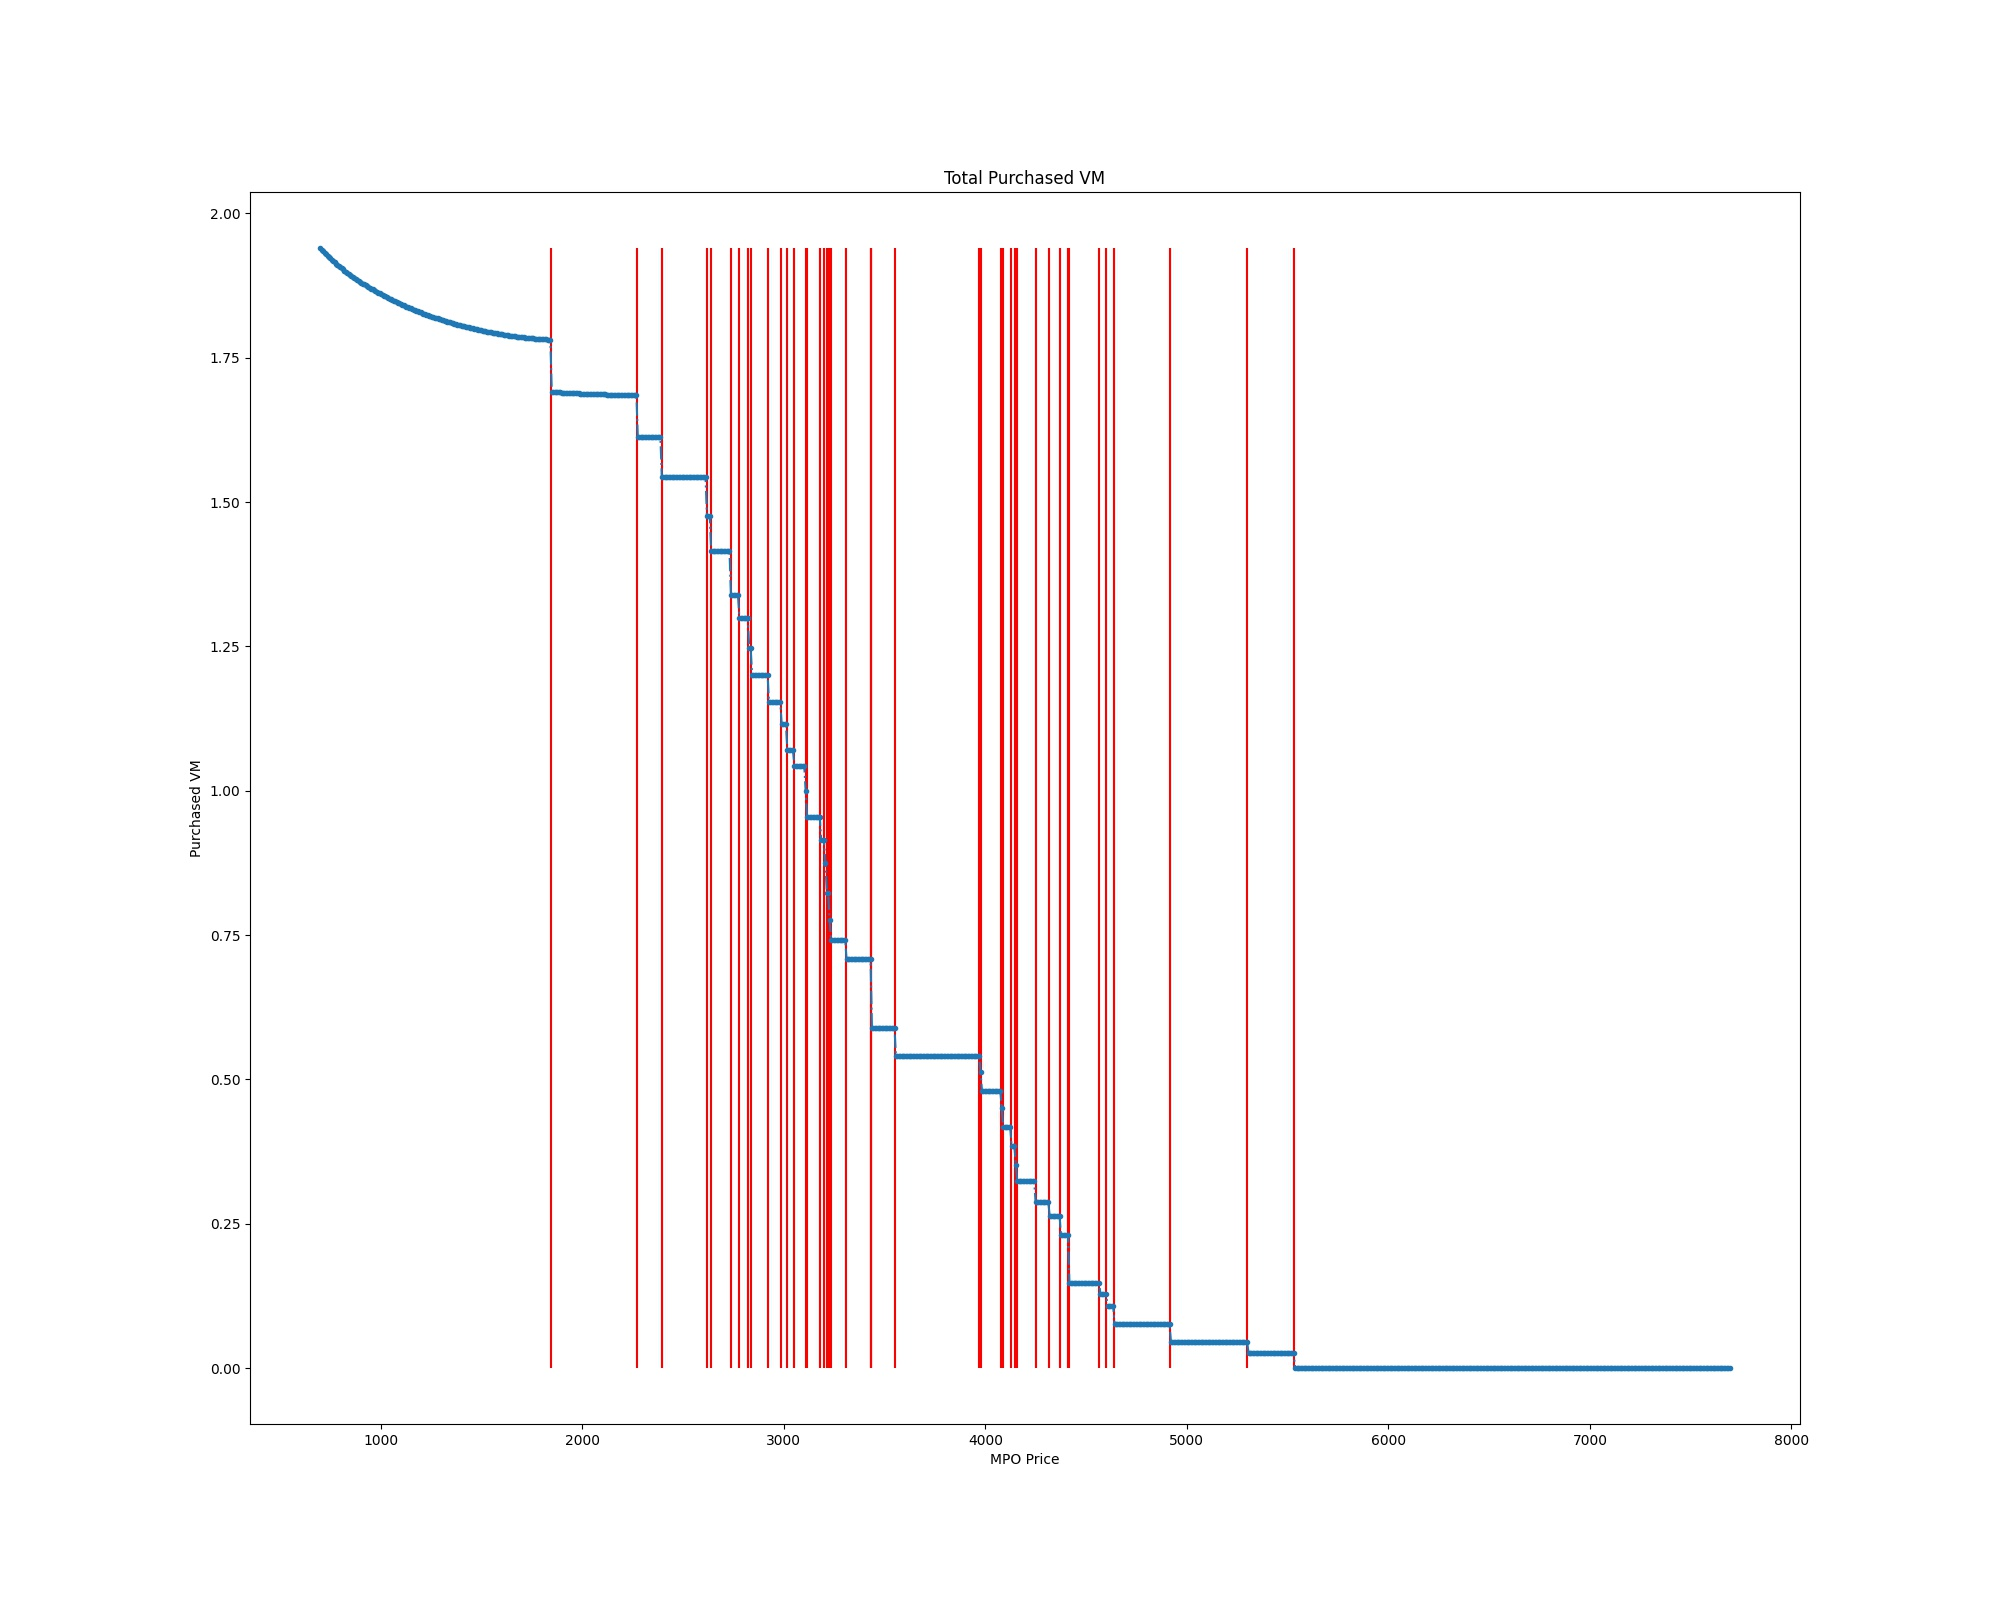
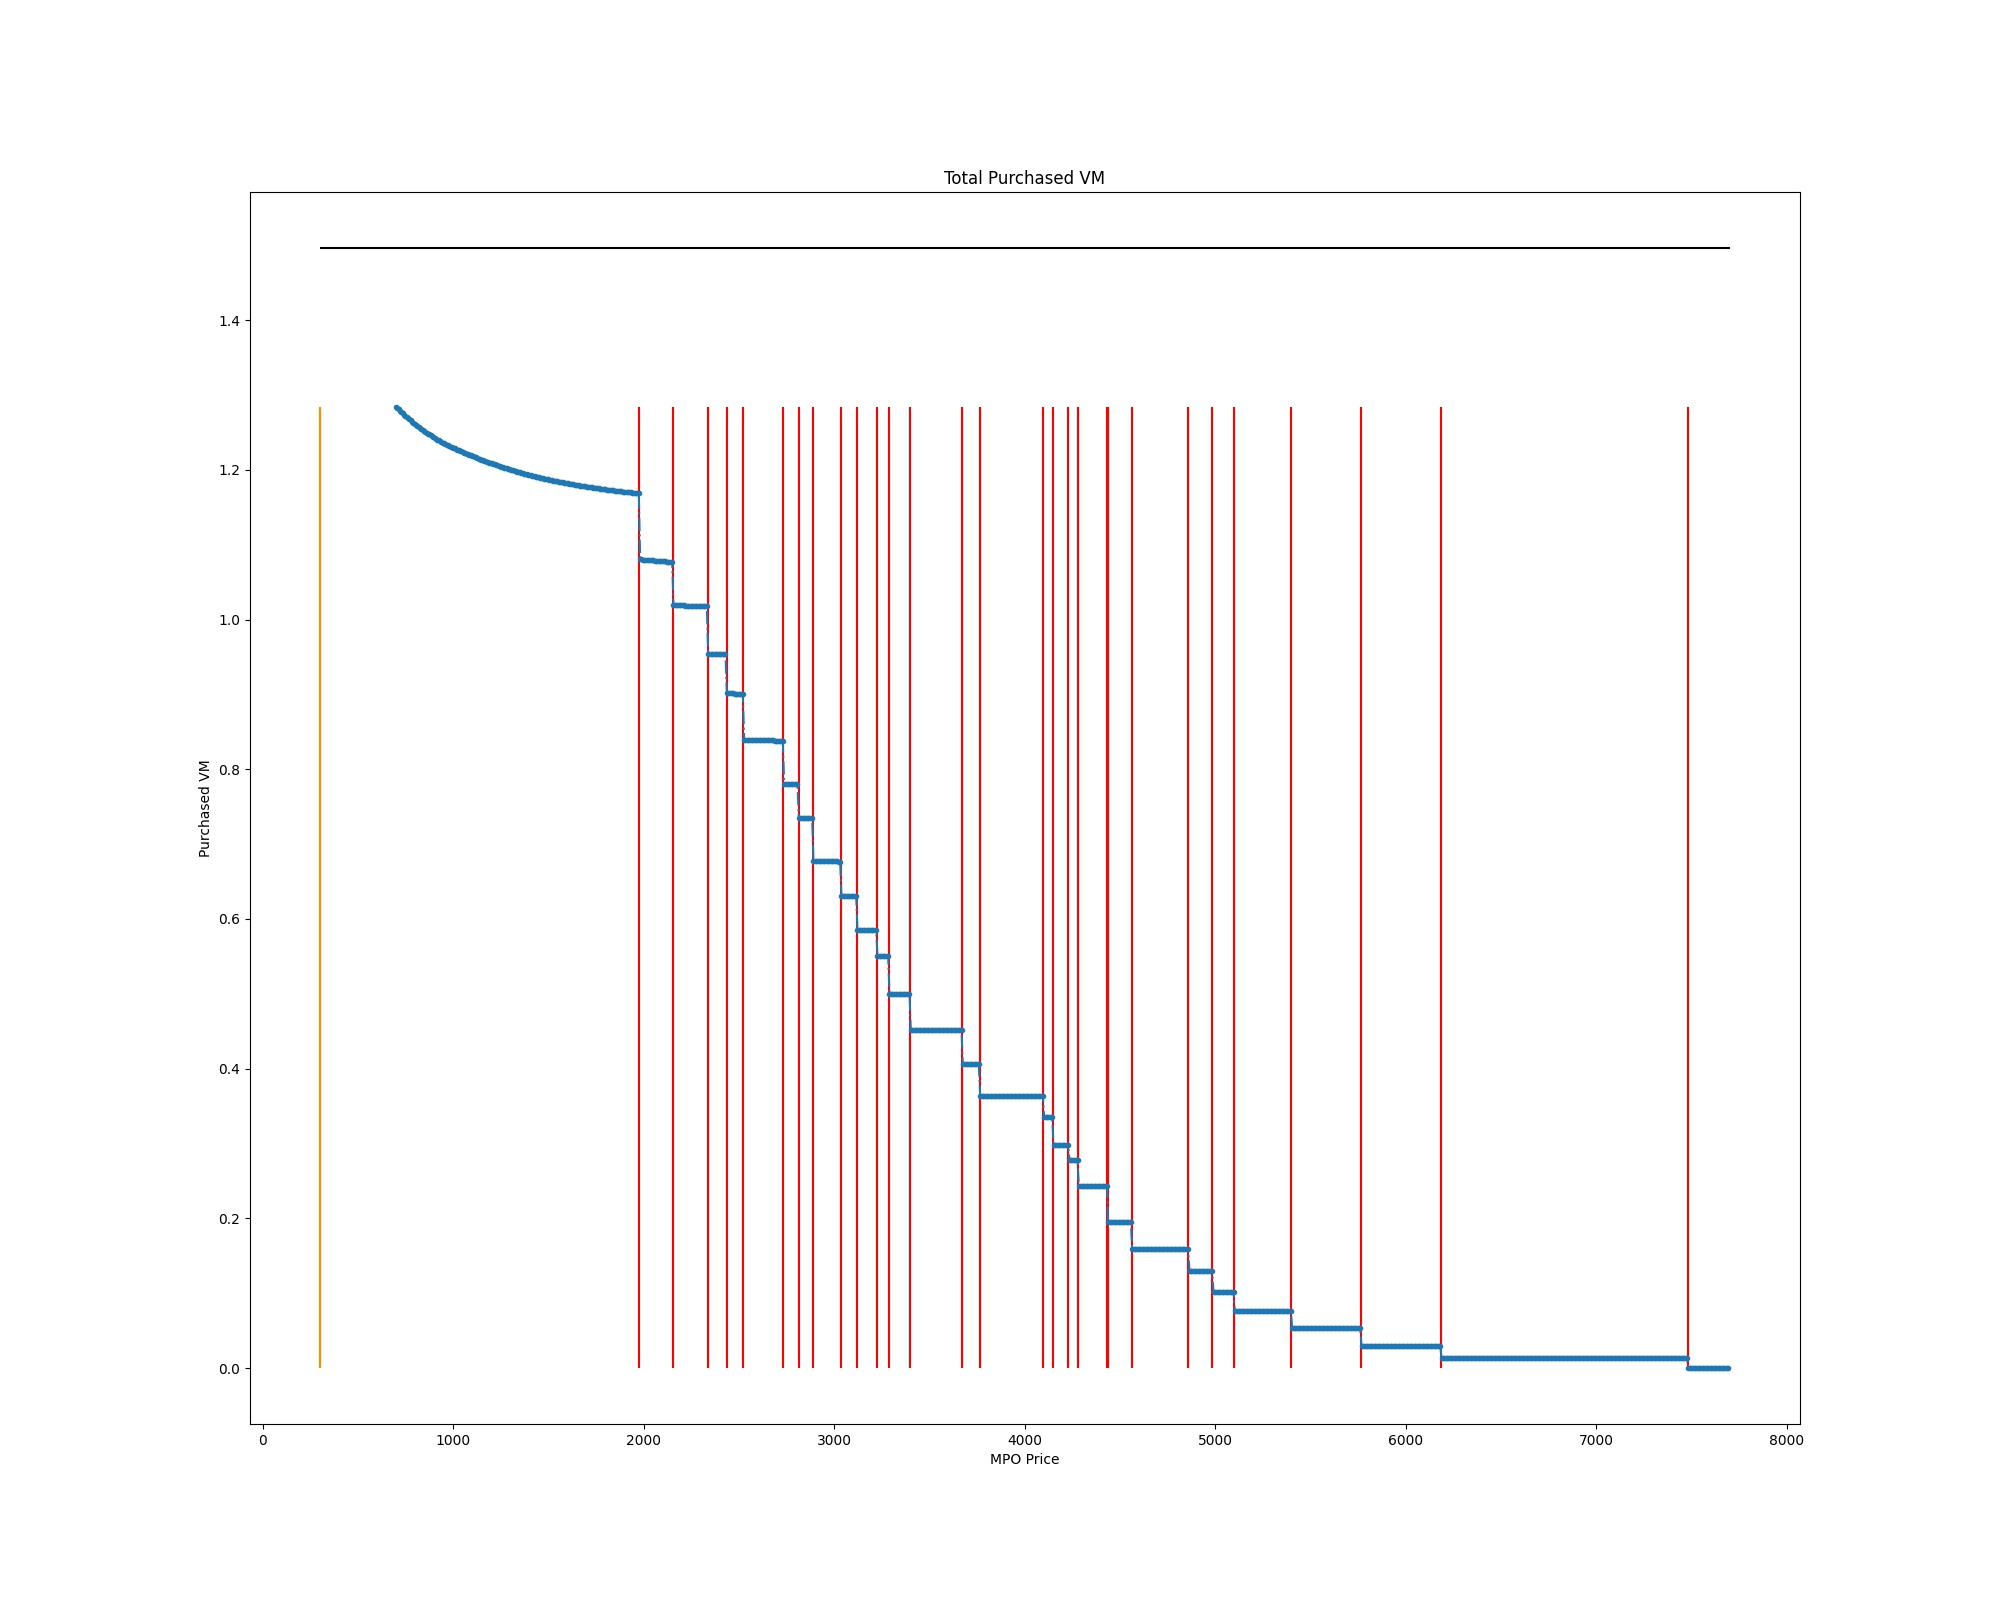
add algorithm

diff --git a/simulation_code/mpo.py b/simulation_code/mpo.py
@@ -12,6 +12,7 @@ class MPO():
         self.num_of_vm = uniform(MPO_NUM_OF_VM_LOWER, MPO_NUM_OF_VM_UPPER)
         self.set_asp()
         self.set_bd()
+        self.get_queue_bound()
 
     def set_asp(self):
         for i in range(self.num_of_asp):
@@ -32,9 +33,16 @@ class MPO():
         self.bd = []
         for asp in self.asp_lst:
             asp.set_boundary()
-
             self.bd.append(asp.bound)
         self.bd.sort()
+        return
+
+    def get_queue_bound(self):
+        self.qbd = []
+        for asp in self.asp_lst:
+            asp.set_boundary()
+            self.qbd.append(asp.qbound)
+        self.qbd.sort()
         return
 
     def set_and_check_required_vm(self, price):
@@ -44,30 +52,38 @@ class MPO():
         return
 
     def plot_phi(self):
+        self.find_optimize_phi()
         phi = 700
         step = 7
         pr = []
         ut = []
         bound = []
         num = []
+        vm_prior = float('inf')
         for _ in range(1000):
             self.set_and_check_required_vm(phi)
-            vm_prior = self.total_vm()
+            vm_after = self.total_vm()
             pr.append(phi)
-            ut.append(phi * vm_prior - MPO_cost(vm_prior))
-            num.append(vm_prior)
+            ut.append(phi * vm_after - MPO_cost(vm_after))
+            num.append(vm_after)
             phi += step
-        plt.figure(figsize=(20, 16))
+            if vm_prior < vm_after:
+                print('Total VM is not non-increasing')
+            vm_prior = vm_after
+        plt.figure(figsize=(20, 16), dpi=100)
         plt.plot(pr, ut, marker='.', linestyle='-.')
         plt.title('Utility of MPO')
         plt.xlabel('MPO Price')
         plt.ylabel('Utility')
         plt.vlines(self.bd, ymin=0, ymax=max(ut), linestyle='-', color ='red')
+        plt.vlines(self.constraint_phi, ymin=0, ymax=max(ut), linestyle='-', color ='darkorange')
         plt.savefig('./utility.jpg')
         plt.close()
-        plt.figure(figsize=(20, 16))
+        plt.figure(figsize=(20, 16), dpi=100)
         plt.plot(pr, num, marker='.', linestyle='-.')
         plt.vlines(self.bd, ymin=0, ymax=max(num), linestyle='-', color ='red')
+        plt.hlines(self.num_of_vm, xmin=min(700, self.constraint_phi), xmax=7700, linestyle='-', color ='black')
+        plt.vlines(self.constraint_phi, ymin=0, ymax=max(num), linestyle='-', color ='darkorange')
         plt.title('Total Purchased VM')
         plt.xlabel('MPO Price')
         plt.ylabel('Purchased VM')
@@ -75,9 +91,8 @@ class MPO():
         plt.close()
 
     def find_optimize_phi(self):
-        print(self.num_of_vm)
         vm_prior = float('inf')
-        phi_prior = 0
+        phi_prior = 0.01
         for bd in self.bd:
             self.set_and_check_required_vm(bd)
             vm_after = self.total_vm()
@@ -86,26 +101,27 @@ class MPO():
                 break
             vm_prior = vm_after
             phi_prior = phi_after
-        print(vm_prior)
-        print(vm_after)
-        upper = phi_after
-        lower = phi_prior
-        print(upper)
-        print(lower)
-        mid = (upper + lower) / 2
-        self.set_and_check_required_vm(lower)
-        vm_num = self.total_vm()
-        print(vm_num)
-        while abs(vm_num - self.num_of_vm) > 0.001 and abs(upper - lower) > 1E-8:
-            print((abs(vm_num - self.num_of_vm) > 0.001, abs(upper - lower) > 1E-8))
+        if phi_prior > max(self.qbd):
+            self.constraint_phi = phi_prior
+        else:
+            upper = phi_after
+            lower = phi_prior
             mid = (upper + lower) / 2
-            self.set_and_check_required_vm(mid)
+            self.set_and_check_required_vm(lower)
             vm_num = self.total_vm()
-            if vm_num > self.num_of_vm:
-                lower = mid
-            else:
-                upper = mid
-        print((abs(vm_num - self.num_of_vm) > 0.001, abs(upper - lower) > 1E-8))
-        print(mid)
-        self.set_and_check_required_vm(mid)
-        print(self.total_vm())
+            print(self.num_of_vm)
+            while abs(vm_num - self.num_of_vm) > 0.001 and abs(upper - lower) > 1E-8:
+                mid = (upper + lower) / 2
+                self.set_and_check_required_vm(mid)
+                vm_num = self.total_vm()
+                print(vm_num)
+                print(f'upper : {upper}, lower : {lower}')
+                if vm_num > self.num_of_vm:
+                    lower = mid
+                else:
+                    upper = mid
+            print(f"Constraint price : {mid}")
+            self.set_and_check_required_vm(mid)
+            vm = self.total_vm()
+            print(vm)
+            self.constraint_phi = mid

diff --git a/simulation_code/asp.py b/simulation_code/asp.py
@@ -20,9 +20,6 @@ class ASP():
         self.chi = 0.999
         self.gamma = 100
         self.phi = 0.1
-        self.rbound = 0
-        self.lbound = 0
-        self.mbound = 0
 
     def set_users(self):
         for i in range(self.num_of_normal_users):
@@ -67,10 +64,10 @@ class ASP():
             util2 += (dev.price_per_task * (1 - ((dev.transmission_time_to_asp + self.time(z_v, 0) - ASP_DEVICE_LATENCY_LOWER) / (ASP_DEVICE_LATENCY_UPPER - ASP_DEVICE_LATENCY_LOWER))))
         if GLOBAL_ETA > self.service_rate:
             self.bound = util1 / z_v
+            self.qbound = self.total_payment / ((ASP_DEVICE_LATENCY_UPPER - ASP_DEVICE_LATENCY_LOWER) * ((1 - self.chi) * self.service_rate + self.chi * GLOBAL_ETA)) / (z_v - self.arrival_rate / ((1 - self.chi) * self.service_rate + self.chi * GLOBAL_ETA)) ** 2
         else:
-
             self.bound = util2 / z_v
-        #self.lbound = self.total_payment / ((ASP_DEVICE_LATENCY_UPPER - ASP_DEVICE_LATENCY_LOWER) * ((1 - self.chi) * self.service_rate + self.chi * GLOBAL_ETA)) / (z_v - self.arrival_rate / ((1 - self.chi) * self.service_rate + self.chi * GLOBAL_ETA)) ** 2
+            self.qbound = self.total_payment / ((ASP_DEVICE_LATENCY_UPPER - ASP_DEVICE_LATENCY_LOWER) * ((1) * self.service_rate)) / (z_v - self.arrival_rate / ((1) * self.service_rate)) ** 2
         return
 
     def set_process_time(self):
@@ -88,9 +85,9 @@ class ASP():
                 print('infeasible')
             if self.utility < 0:
                 self.z_v = 0
-
         else:
-            self.z_v = (1 / self.service_rate) * sqrt(self.service_rate * self.total_payment / ((ASP_DEVICE_LATENCY_UPPER - ASP_DEVICE_LATENCY_LOWER) * self.mpo_price)) + self.arrival_rate / self.service_rate
+            self.z_v = sqrt(self.total_payment / ((ASP_DEVICE_LATENCY_UPPER - ASP_DEVICE_LATENCY_LOWER) * self.mpo_price * self.service_rate)) + self.arrival_rate / self.service_rate
+            self.z_h = 0
             if self.z_v < (self.gamma + self.arrival_rate) / self.service_rate:
                 self.z_v = (self.gamma + self.arrival_rate) / self.service_rate
 

diff --git a/simulation_code/run.py b/simulation_code/run.py
@@ -5,8 +5,8 @@ from mpo import MPO
 
 if __name__ == '__main__':
     mpo = MPO()
-    mpo.find_optimize_phi()
-    # mpo.plot_phi()
+    # mpo.find_optimize_phi()
+    mpo.plot_phi()
     # asp = ASP()
     # asp.plot_max()
     # asp.plot_max_zh()

diff --git a/simulation_code/const.py b/simulation_code/const.py
@@ -62,8 +62,8 @@ def ASP_H(x):
 MPO_NUM_OF_ASP_UPPER = 50
 MPO_NUM_OF_ASP_LOWER = 25
 
-MPO_NUM_OF_VM_LOWER = 0.5
-MPO_NUM_OF_VM_UPPER = 1
+MPO_NUM_OF_VM_LOWER = 1.2
+MPO_NUM_OF_VM_UPPER = 1.5
 
 def MPO_cost(x):
     return 100 * exp(x)
